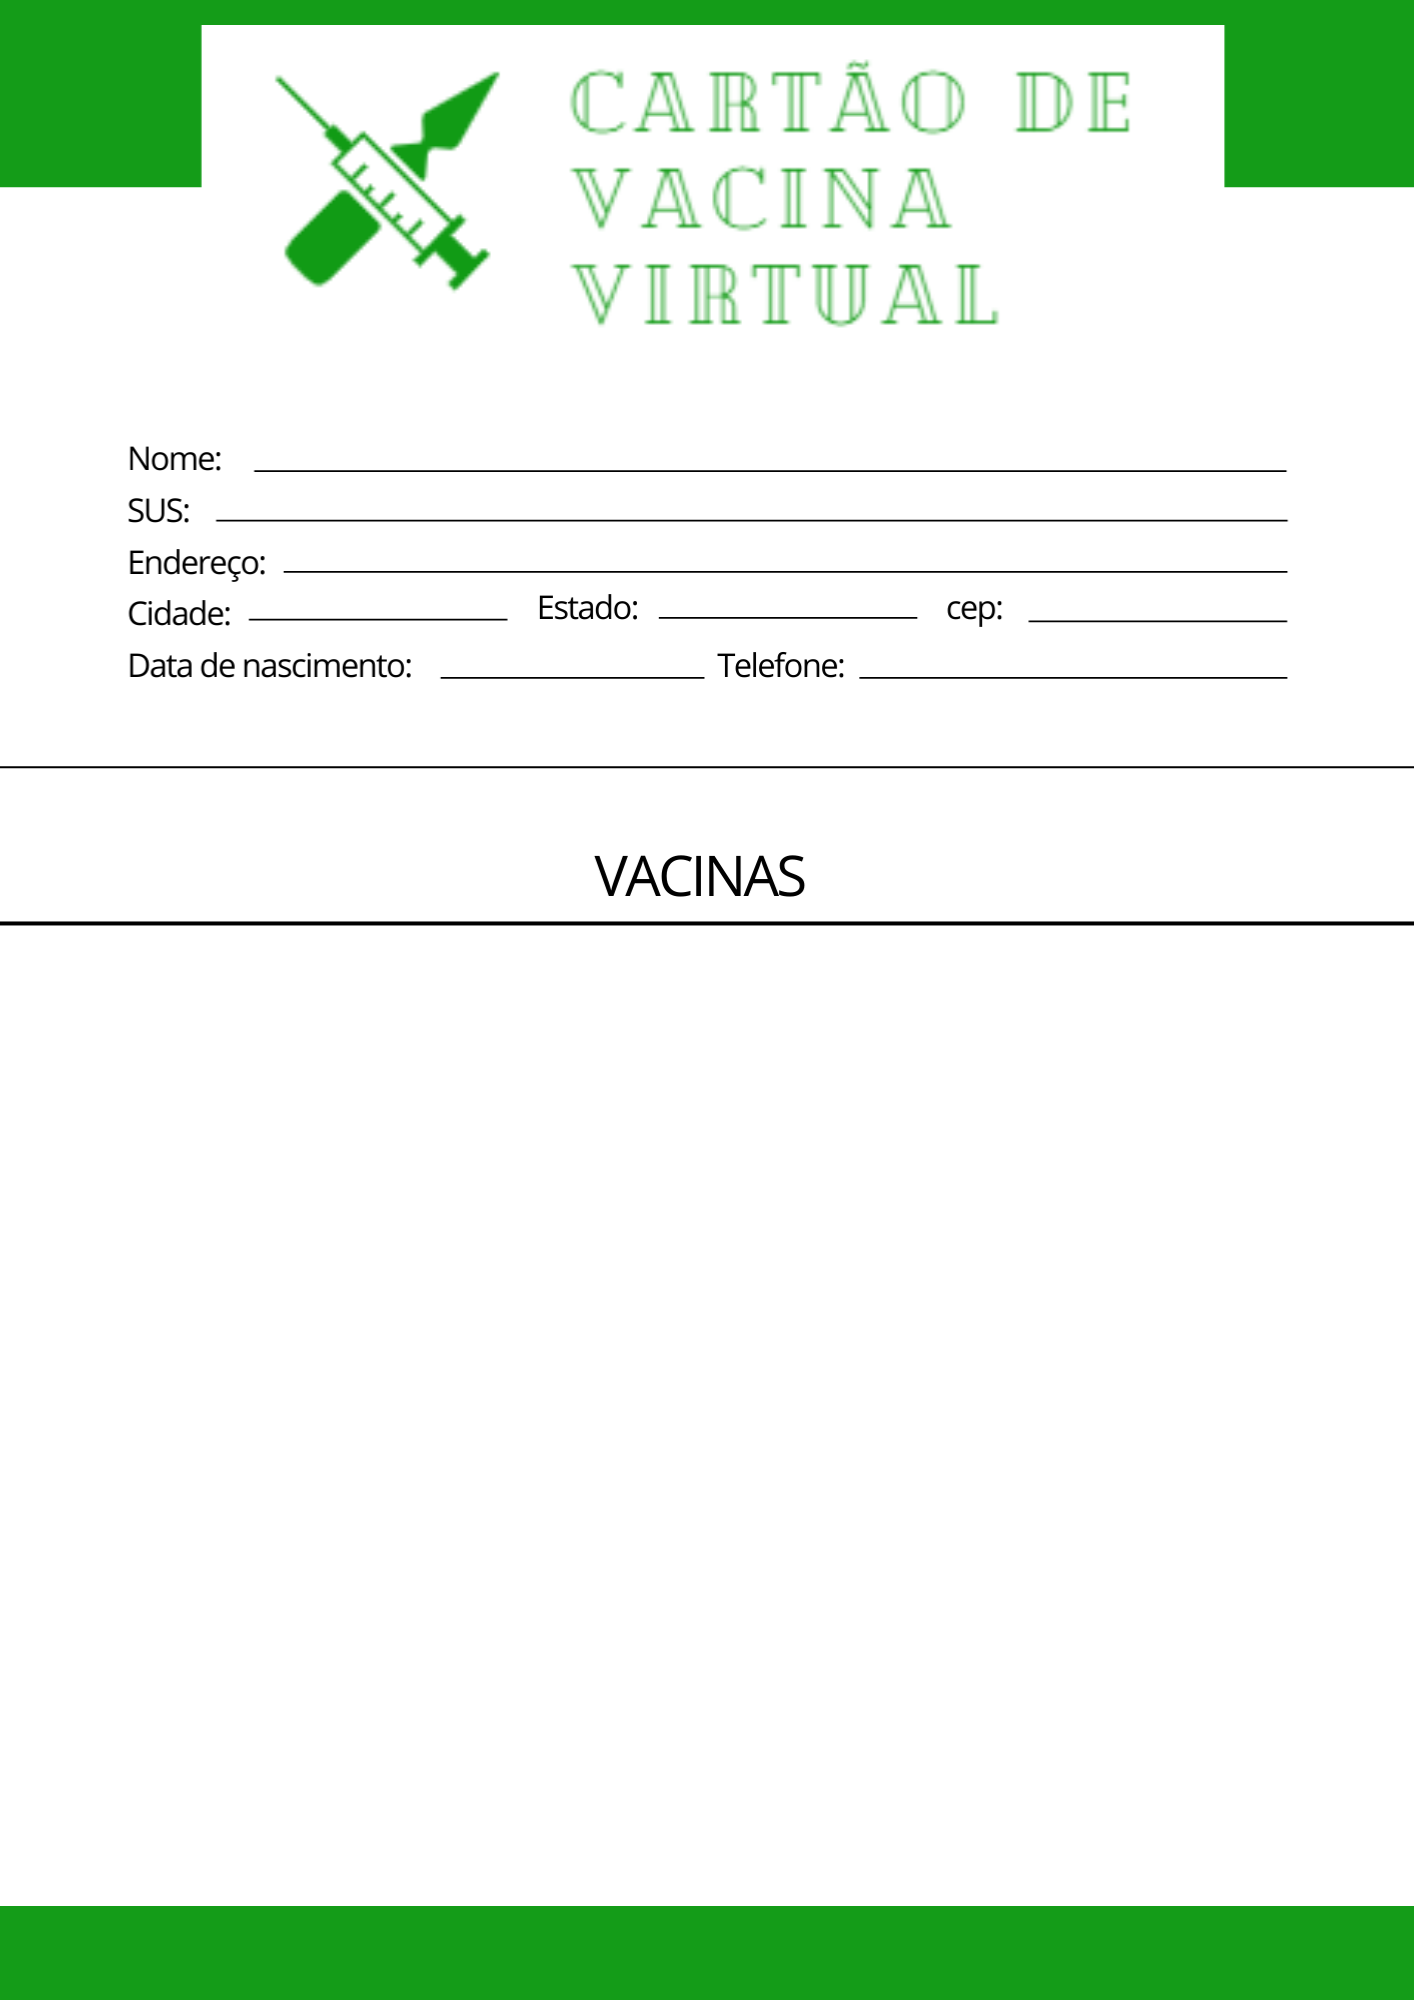
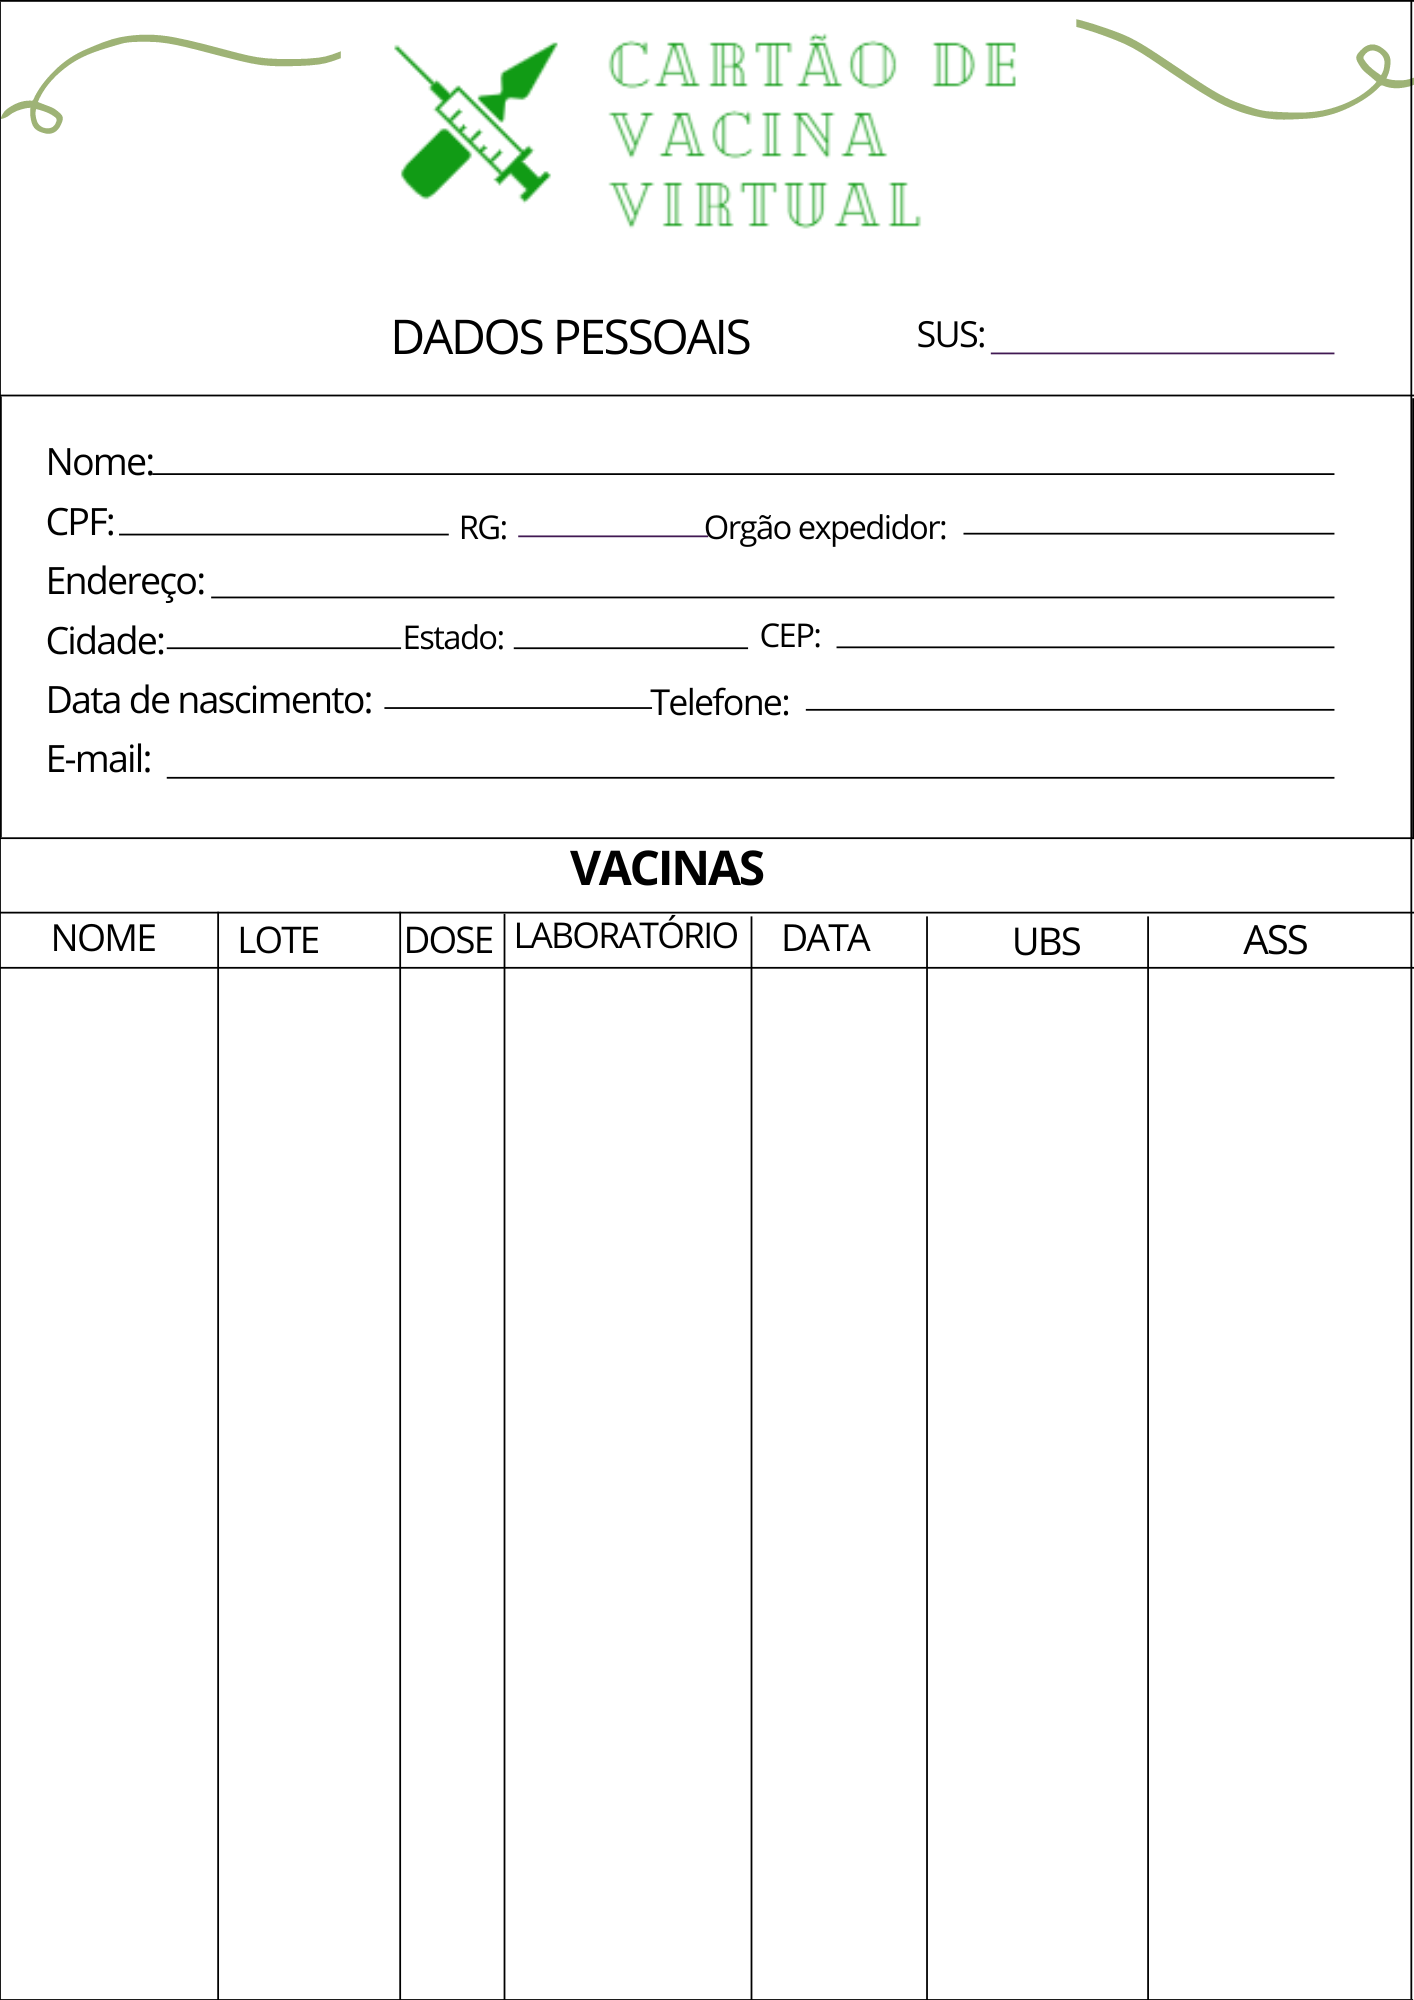
atualização no cartão de vacina

diff --git a/enfermeiro/controller/gerarcartaovacina.php b/enfermeiro/controller/gerarcartaovacina.php
@@ -12,44 +12,43 @@ $pdf->AddPage();
 $pdf->Image("../../img/Cartaovacina.png", 0, 0, $pdf->GetPageWidth(), $pdf->GetPageHeight());
 
 while ($row = @mysqli_fetch_array($resultado, MYSQLI_ASSOC)) {
-  $pdf->SetFont('Arial', '', 10);
-  $pdf->ln(150);
-  $pdf->Cell(170);
-  $pdf->Cell(10, 10, utf8_decode($row['nome_paciente']), 0, 0, 'C');
-  $pdf->ln(-20);
-  $pdf->Cell(120);
-  $pdf->Cell(20, 100, utf8_decode($row['sus']), 0, 0, 'C');
-  $pdf->ln(21);
-  $pdf->Cell(110);
-  $pdf->Cell(20, 100, utf8_decode($row['rua']), 0, 0, 'C');
-  $pdf->Cell(22);
-  $pdf->Cell(20, 100, utf8_decode($row['numero']), 0, 0, 'C');
-  $pdf->Cell(45);
-  $pdf->Cell(20, 100, utf8_decode($row['bairro']), 0, 0, 'C');
+  $pdf->SetFont('Arial', 'b', 10);
+  $pdf->Cell(820, 230, utf8_decode($row['sus']), 0, 0, 'C');
+  $pdf->ln(160);
+  $pdf->Cell(140, 10, utf8_decode($row['nome_paciente']), 0, 0, 'C');
   $pdf->ln(25);
-  $pdf->Cell(125);
-  $pdf->Cell(20, 100, utf8_decode($row['cidade']), 0, 0, 'C');
-  $pdf->Cell(150);
-  $pdf->Cell(20, 100, utf8_decode($row['estado']), 0, 0, 'C');
-  $pdf->Cell(120);
-  $pdf->Cell(20, 100, utf8_decode($row['cep']), 0, 0, 'C');
+  $pdf->Cell(120, 10, utf8_decode($row['cpf']), 0, 0, 'C');
+  $pdf->Cell(215, 5, utf8_decode($row['rg']), 0, 0, 'C');
+  $pdf->Cell(170, 10, utf8_decode($row['orgao_expedidor']), 0, 0, 'C');
   $pdf->ln(25);
-  $pdf->Cell(190);
-  $pdf->Cell(20, 100, utf8_decode($row['nascimento']), 0, 0, 'C');
-  $pdf->ln(-1);
-  $pdf->Cell(390);
-  $pdf->Cell(20, 100, utf8_decode($row['telefone']), 0, 0, 'C');
-  $pdf->Cell(400);
+  $pdf->Cell(170, 10, utf8_decode($row['rua']), 0, 0, 'C');
+  $pdf->Cell(100, 10, utf8_decode($row['numero']), 0, 0, 'C');
+  $pdf->Cell(150, 10, utf8_decode($row['bairro']), 0, 0, 'C');
+  $pdf->ln(25);
+  $pdf->Cell(170, 10, utf8_decode($row['cidade']), 0, 0, 'C');
+  $pdf->Cell(100, 10, utf8_decode($row['estado']), 0, 0, 'C');
+  $pdf->Cell(170, 10, utf8_decode($row['cep']), 0, 0, 'C');
+  $pdf->ln(25);
+  $pdf->Cell(350, 10, utf8_decode($row['nascimento']), 0, 0, 'C');
+  $pdf->Cell(20, 10, utf8_decode($row['telefone']), 0, 0, 'C');
+  $pdf->ln(25);
+  $pdf->Cell(230, 10, utf8_decode($row['email']), 0, 0, 'C');
 }
-$pdf->Cell(400);
+$pdf->ln(100);
 $id_paciente = $_GET['id'];
 $busca = new manipulaDados();
-$busca->setTable("unidade_de_saude" and "funcionario" and "vacina" and "vacinas_aplicadas");
+$busca->setTable("unidade_de_saude" and "funcionario" and "vacina" and "vacinas_aplicadas" and "descricao_vacina");
 $resultado = $busca->cartaoVacina($id_paciente);
 while ($row = @mysqli_fetch_array($resultado, MYSQLI_ASSOC)) {
   $pdf->SetFont('Arial', 'b', 8);
-  $pdf->ln(15);
-  $pdf->Cell(0, 400, utf8_decode('NOME: ') . $row['nome_vacina'] . utf8_decode(' ') . utf8_decode('LOTE: ') . $row['lote_vacina'] . utf8_decode(' ') . utf8_decode('DOSE: ') . $row['dose'] . utf8_decode(' ') . utf8_decode('LABORATORIO: ') . $row['laboratorio_vacina'] . utf8_decode(' ') . utf8_decode('DATA: ') . $row['data_aplicacao'] . utf8_decode(' ') . utf8_decode('UBS: ') . $row['nome_unidade'] . utf8_decode(' ') . utf8_decode('ASS: ') . $row['nome'], 0, 0, 'C');
+  $pdf->Cell(20, 10, utf8_decode($row['nome_vacina']) , 0, 0, 'C');
+  $pdf->Cell(120, 10, utf8_decode($row['lote']) , 0, 0, 'C');
+  $pdf->Cell(50, 10, utf8_decode($row['dose']) , 0, 0, 'C');
+  $pdf->Cell(60, 10, utf8_decode($row['laboratorio']) , 0, 0, 'C');
+  $pdf->Cell(135, 10, utf8_decode($row['data_aplicacao']) , 0, 0, 'C');
+  $pdf->Cell(20, 10, utf8_decode($row['nome_unidade']) , 0, 0, 'C');
+  $pdf->Cell(200, 10, utf8_decode($row['nome']) , 0, 0, 'C');
+  $pdf->ln(10);
 }
 
-$pdf->Output("I", "cartaodevaciana.pdf", true);
+$pdf->Output("I", "cartaodevacina.pdf", true);

diff --git a/paciente/controller/gerarcartaovacina.php b/paciente/controller/gerarcartaovacina.php
@@ -12,44 +12,43 @@ $pdf->AddPage();
 $pdf->Image("../../img/Cartaovacina.png", 0, 0, $pdf->GetPageWidth(), $pdf->GetPageHeight());
 
 while ($row = @mysqli_fetch_array($resultado, MYSQLI_ASSOC)) {
-  $pdf->SetFont('Arial', '', 10);
-  $pdf->ln(150);
-  $pdf->Cell(170);
-  $pdf->Cell(10, 10, utf8_decode($row['nome_paciente']), 0, 0, 'C');
-  $pdf->ln(-20);
-  $pdf->Cell(120);
-  $pdf->Cell(20, 100, utf8_decode($row['sus']), 0, 0, 'C');
-  $pdf->ln(21);
-  $pdf->Cell(110);
-  $pdf->Cell(20, 100, utf8_decode($row['rua']), 0, 0, 'C');
-  $pdf->Cell(22);
-  $pdf->Cell(20, 100, utf8_decode($row['numero']), 0, 0, 'C');
-  $pdf->Cell(45);
-  $pdf->Cell(20, 100, utf8_decode($row['bairro']), 0, 0, 'C');
+  $pdf->SetFont('Arial', 'b', 10);
+  $pdf->Cell(820, 230, utf8_decode($row['sus']), 0, 0, 'C');
+  $pdf->ln(160);
+  $pdf->Cell(140, 10, utf8_decode($row['nome_paciente']), 0, 0, 'C');
   $pdf->ln(25);
-  $pdf->Cell(125);
-  $pdf->Cell(20, 100, utf8_decode($row['cidade']), 0, 0, 'C');
-  $pdf->Cell(150);
-  $pdf->Cell(20, 100, utf8_decode($row['estado']), 0, 0, 'C');
-  $pdf->Cell(120);
-  $pdf->Cell(20, 100, utf8_decode($row['cep']), 0, 0, 'C');
+  $pdf->Cell(120, 10, utf8_decode($row['cpf']), 0, 0, 'C');
+  $pdf->Cell(215, 5, utf8_decode($row['rg']), 0, 0, 'C');
+  $pdf->Cell(170, 10, utf8_decode($row['orgao_expedidor']), 0, 0, 'C');
   $pdf->ln(25);
-  $pdf->Cell(190);
-  $pdf->Cell(20, 100, utf8_decode($row['nascimento']), 0, 0, 'C');
-  $pdf->ln(-1);
-  $pdf->Cell(390);
-  $pdf->Cell(20, 100, utf8_decode($row['telefone']), 0, 0, 'C');
-  $pdf->Cell(400);
+  $pdf->Cell(170, 10, utf8_decode($row['rua']), 0, 0, 'C');
+  $pdf->Cell(100, 10, utf8_decode($row['numero']), 0, 0, 'C');
+  $pdf->Cell(150, 10, utf8_decode($row['bairro']), 0, 0, 'C');
+  $pdf->ln(25);
+  $pdf->Cell(170, 10, utf8_decode($row['cidade']), 0, 0, 'C');
+  $pdf->Cell(100, 10, utf8_decode($row['estado']), 0, 0, 'C');
+  $pdf->Cell(170, 10, utf8_decode($row['cep']), 0, 0, 'C');
+  $pdf->ln(25);
+  $pdf->Cell(350, 10, utf8_decode($row['nascimento']), 0, 0, 'C');
+  $pdf->Cell(20, 10, utf8_decode($row['telefone']), 0, 0, 'C');
+  $pdf->ln(25);
+  $pdf->Cell(230, 10, utf8_decode($row['email']), 0, 0, 'C');
 }
-$pdf->Cell(400);
+$pdf->ln(100);
 $id_paciente = $_GET['id'];
 $busca = new manipulaDados();
-$busca->setTable("unidade_de_saude" and "funcionario" and "vacina" and "vacinas_aplicadas");
+$busca->setTable("unidade_de_saude" and "funcionario" and "vacina" and "vacinas_aplicadas" and "descricao_vacina");
 $resultado = $busca->cartaoVacina($id_paciente);
 while ($row = @mysqli_fetch_array($resultado, MYSQLI_ASSOC)) {
   $pdf->SetFont('Arial', 'b', 8);
-  $pdf->ln(15);
-  $pdf->Cell(0, 400, utf8_decode('NOME: ') . $row['nome_vacina'] . utf8_decode(' ') . utf8_decode('LOTE: ') . $row['lote_vacina'] . utf8_decode(' ') . utf8_decode('DOSE: ') . $row['dose'] . utf8_decode(' ') . utf8_decode('LABORATORIO: ') . $row['laboratorio_vacina'] . utf8_decode(' ') . utf8_decode('DATA: ') . $row['data_aplicacao'] . utf8_decode(' ') . utf8_decode('UBS: ') . $row['nome_unidade'] . utf8_decode(' ') . utf8_decode('ASS: ') . $row['nome'], 0, 0, 'C');
+  $pdf->Cell(20, 10, utf8_decode($row['nome_vacina']) , 0, 0, 'C');
+  $pdf->Cell(120, 10, utf8_decode($row['lote']) , 0, 0, 'C');
+  $pdf->Cell(50, 10, utf8_decode($row['dose']) , 0, 0, 'C');
+  $pdf->Cell(60, 10, utf8_decode($row['laboratorio']) , 0, 0, 'C');
+  $pdf->Cell(135, 10, utf8_decode($row['data_aplicacao']) , 0, 0, 'C');
+  $pdf->Cell(20, 10, utf8_decode($row['nome_unidade']) , 0, 0, 'C');
+  $pdf->Cell(200, 10, utf8_decode($row['nome']) , 0, 0, 'C');
+  $pdf->ln(10);
 }
 
-$pdf->Output("I", "cartaodevaciana.pdf", true);
+$pdf->Output("I", "cartaodevacina.pdf", true);

diff --git a/classes/manipulaDados.php b/classes/manipulaDados.php
@@ -103,11 +103,12 @@ class manipulaDados extends conexao
         return $this->query;
     }
     public function cartaoVacina($id_paciente){
-        $this->sql = "SELECT * from vacinas_aplicadas 
+        $this->sql = "SELECT * from vacinas_aplicadas
         INNER JOIN paciente on paciente.id_paciente = vacinas_aplicadas.id_paciente 
-        INNER JOIN vacina ON vacina.id_vacina = vacinas_aplicadas.id_vacina
-        inner join funcionario on paciente.id_funcionario = funcionario.id_funcionario
-        inner join unidade_de_saude on funcionario.id_unidade = unidade_de_saude.id_unidade
+        INNER JOIN descricao_vacina ON descricao_vacina.id_descricao_vacina = vacinas_aplicadas.id_descricao_vacina
+        INNER JOIN vacina ON vacina.id_vacina = descricao_vacina.id_vacina
+        INNER JOIN funcionario ON vacinas_aplicadas.id_funcionario = funcionario.id_funcionario
+        INNER JOIN unidade_de_saude ON funcionario.id_unidade = unidade_de_saude.id_unidade
         WHERE vacinas_aplicadas.id_paciente = '$id_paciente'";
         $this->query = self::execSQL($this->sql);
         return $this->query;
